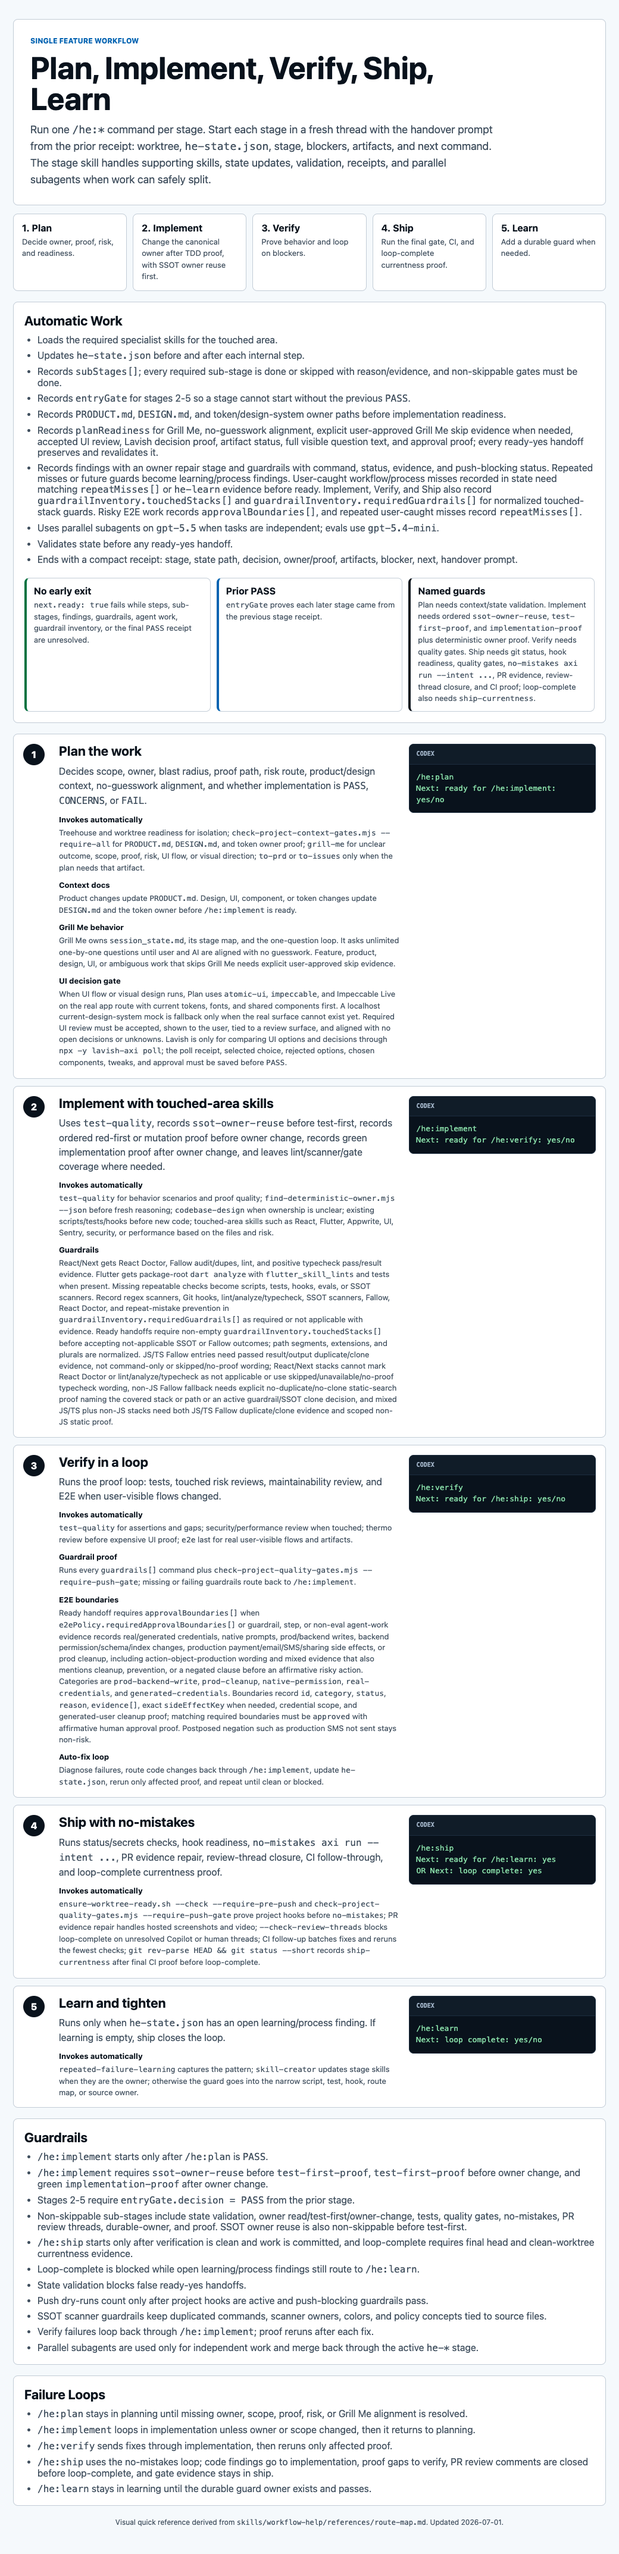
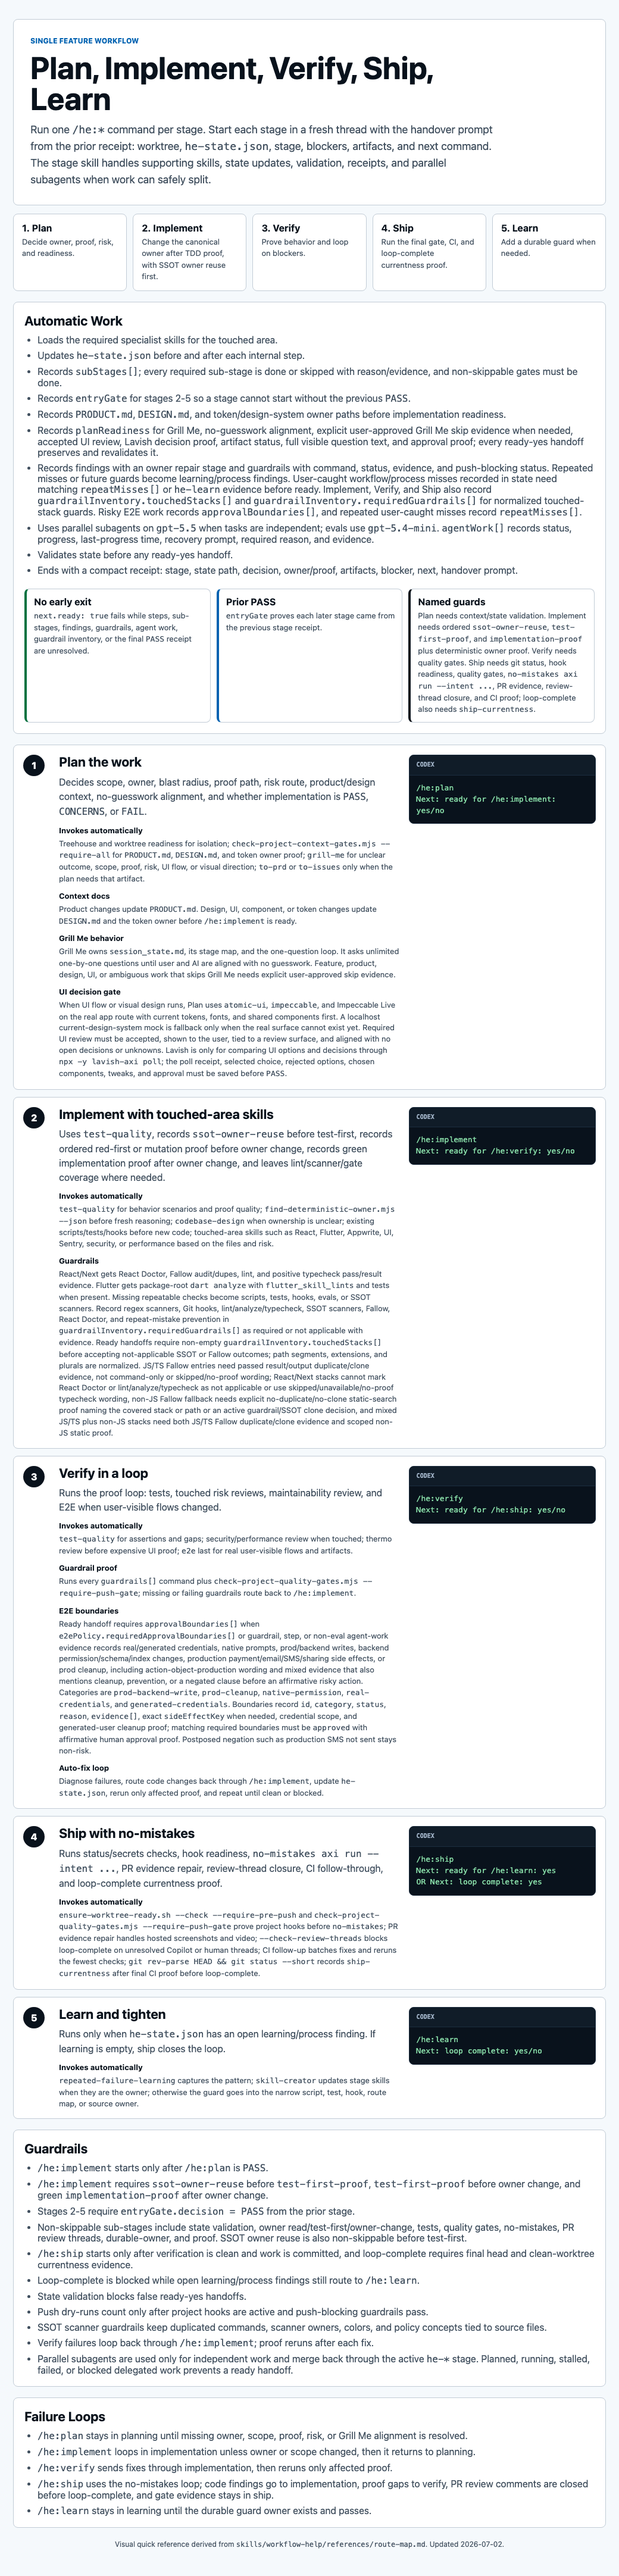
feat: validate delegated agent lifecycle state (#9)
* Add subagent lifecycle guardrails

* no-mistakes(review): Reject blank agentWork lifecycle entries

* no-mistakes(review): Require stalled subagent reason output

* no-mistakes(review): Require subagent lastProgressAt reporting

* no-mistakes(document): Sync agentWork lifecycle docs

* Bump alpha version for PR #9

---------

diff --git a/docs/project-workflow-gates.html b/docs/project-workflow-gates.html
@@ -191,7 +191,7 @@
         <li>Records <code>PRODUCT.md</code>, <code>DESIGN.md</code>, and token/design-system owner paths before implementation readiness.</li>
         <li>Records <code>planReadiness</code> for Grill Me, no-guesswork alignment, explicit user-approved Grill Me skip evidence when needed, accepted UI review, Lavish decision proof, artifact status, full visible question text, and approval proof; every ready-yes handoff preserves and revalidates it.</li>
         <li>Records findings with an owner repair stage and guardrails with command, status, evidence, and push-blocking status. Repeated misses or future guards become learning/process findings. User-caught workflow/process misses recorded in state need matching <code>repeatMisses[]</code> or <code>he-learn</code> evidence before ready. Implement, Verify, and Ship also record <code>guardrailInventory.touchedStacks[]</code> and <code>guardrailInventory.requiredGuardrails[]</code> for normalized touched-stack guards. Risky E2E work records <code>approvalBoundaries[]</code>, and repeated user-caught misses record <code>repeatMisses[]</code>.</li>
-        <li>Uses parallel subagents on <code>gpt-5.5</code> when tasks are independent; evals use <code>gpt-5.4-mini</code>.</li>
+        <li>Uses parallel subagents on <code>gpt-5.5</code> when tasks are independent; evals use <code>gpt-5.4-mini</code>. <code>agentWork[]</code> records status, progress, last-progress time, recovery prompt, required reason, and evidence.</li>
         <li>Validates state before any ready-yes handoff.</li>
         <li>Ends with a compact receipt: stage, state path, decision, owner/proof, artifacts, blocker, next, handover prompt.</li>
       </ul>
@@ -275,7 +275,7 @@ Next: loop complete: yes/no</code></pre>
         <li>Push dry-runs count only after project hooks are active and push-blocking guardrails pass.</li>
         <li>SSOT scanner guardrails keep duplicated commands, scanner owners, colors, and policy concepts tied to source files.</li>
         <li>Verify failures loop back through <code>/he:implement</code>; proof reruns after each fix.</li>
-        <li>Parallel subagents are used only for independent work and merge back through the active <code>he-*</code> stage.</li>
+        <li>Parallel subagents are used only for independent work and merge back through the active <code>he-*</code> stage. Planned, running, stalled, failed, or blocked delegated work prevents a ready handoff.</li>
       </ul>
     </section>
 
@@ -290,7 +290,7 @@ Next: loop complete: yes/no</code></pre>
       </ul>
     </section>
 
-    <p class="footer">Visual quick reference derived from <code>skills/workflow-help/references/route-map.md</code>. Updated 2026-07-01.</p>
+    <p class="footer">Visual quick reference derived from <code>skills/workflow-help/references/route-map.md</code>. Updated 2026-07-02.</p>
   </main>
 </body>
 </html>

diff --git a/skills/workflow-help/references/route-map.md b/skills/workflow-help/references/route-map.md
@@ -5,7 +5,7 @@
 Order is fixed: 1 `he-plan` -> 2 `he-implement` -> 3 `he-verify` -> 4 `he-ship` -> 5 `he-learn` when needed.
 Each stage runs until its exit is true or blocked, then says `Next: ready for /he:*: yes/no`.
 Prefer a fresh thread for each stage. Start the new thread with the handover prompt from the prior receipt; it must include the next `/he:*` command, worktree path, `he-state.json` path, stage, state, next target, blockers, artifacts, and the instruction to read state first.
-The visible command is one `he-*` command per stage. That stage loads touched-area skills, updates state, and uses parallel subagents only for independent work that can merge back through the active stage. Subagent work uses `gpt-5.5`; eval work uses `gpt-5.4-mini`.
+The visible command is one `he-*` command per stage. That stage loads touched-area skills, updates state, and uses parallel subagents only for independent work that can merge back through the active stage. Subagent work uses `gpt-5.5`; eval work uses `gpt-5.4-mini`. Delegated work is not fire-and-forget: `agentWork[]` records status, progress, last-progress time, recovery prompt, required reason, and evidence so the parent can tell running, stalled, blocked, failed, and done apart.
 State is required: each feature keeps an `he-state.json` in the plan/worktree. Every internal step updates `steps[]`; every required stage checklist updates `subStages[]`; every later stage records `entryGate` from the prior `PASS`; every finding from Plan onward updates `findings[]` with owner repair stage; every repeated miss, review gap, process gap, or missing future guard becomes a learning finding with `ownerStage: he-learn` and `repairType: learning`; every deterministic guard updates `guardrails[]` with owner, command, status, evidence, and whether it blocks push. Stages 2-4 also record `guardrailInventory.touchedStacks[]` and `guardrailInventory.requiredGuardrails[]` so normalized touched-stack guards are either required with a `guardrails[]` entry or not applicable with reason/evidence. E2E approval boundaries live in `approvalBoundaries[]` with `id`, `category`, `status`, `reason`, and `evidence[]`; categories are `prod-backend-write`, `prod-cleanup`, `native-permission`, `real-credentials`, and `generated-credentials`. Repeated user-caught misses live in `repeatMisses[]` with `issueClass` and `evidence[]`; any user-caught workflow/process miss in findings, decisions, or blockers needs matching `repeatMisses[]` or `he-learn` learning/process evidence before ready. Plan also records `context.product`, `context.design`, `context.tokenOwner`, and `planReadiness`; every later ready handoff preserves and revalidates `planReadiness`. Every done or blocked step has a receipt; only a final receipt with `decision: PASS` can set `Next: ... yes`. Before any `Next: ... yes`, run `node "$HOME/.agents/scripts/he-state.mjs" validate <he-state.json>`.
 To avoid context rot, every stage exits with a receipt, not a transcript:
 `Stage:` current stage; `State:` path to `he-state.json`; `Decision:` pass/blocker; `Owner/proof:` paths or commands; `Artifacts:` links/paths; `Blocker:` none or exact ask; `Next:` ready/not-ready; `Handover prompt:` copy-paste prompt for a brand-new session with worktree, state, blockers, artifacts, and next `/he:*` command.
@@ -59,10 +59,10 @@ Every failed stage records a finding in `he-state.json`, loops to the owning rep
 - Record E2E approval boundaries for real/generated credentials, native permission prompts, affirmative prod/backend/Appwrite/DB/payment/email/SMS/sharing side effects, backend permission/schema/index changes, and cleanup before any ready handoff with matching policy or risky guardrail, step, or non-eval agent-work evidence, including mixed evidence that also mentions cleanup or prevention; matching required boundaries must be `status: approved` with affirmative human approval proof; credential boundaries need `redactedCredentialRef` and `dataScope`, generated credentials need positive `cleanupProof[]`, and distinct production side effects need matching `sideEffectKey` or equivalent proof; postposed negation such as `production SMS not sent` stays non-risk
 - Record Grill Me/UI readiness in `planReadiness`; `next.ready: true` is invalid without unlimited-until-aligned Grill Me evidence, no open unknowns, explicit user-approved Grill Me skip evidence when feature/product/design/UI/ambiguous work bypasses Grill Me, and accepted required UI review with review surface, user response, design-system/shared-component evidence, and no open decisions or unknowns
 - Record `planReadiness.uiReview.lavish` only for UI option decisions: Lavish artifact path, no-timeout `npx -y lavish-axi poll`, poll receipt, saved choices, saved components, selected option, rejected options, and user decision
-- Record `agentWork[]`; subagents must use `gpt-5.5`, evals must use `gpt-5.4-mini`
+- Record `agentWork[]`; subagents must use `gpt-5.5`, evals must use `gpt-5.4-mini`; running, stalled, blocked, or failed entries need `progress[]`, `lastProgressAt`, and `recoveryPrompt`, with `reason` for stalled or blocked work
 - Eval cadence is realistic: deterministic state/hooks/scanners run by default; `gpt-5.4-mini` model evals run only for skill/routing contract changes, release readiness, or a regression; long Grill Me session evals run only for conversation-behavior changes or release proof
 - Product behavior changes update `PRODUCT.md`; design/UI/token changes update `DESIGN.md` and the token owner
-- `next.ready: true` is invalid while any step is pending, in progress, or blocked
+- `next.ready: true` is invalid while any step is pending, in progress, or blocked, or while `agentWork[]` is planned, running, stalled, failed, or blocked
 - `next.ready: true` is invalid while blocking findings or push-blocking guardrails are unresolved
 - `next.ready: true` is invalid without the stage-required guardrails: context/state validation for Plan, ordered TDD `test-first-proof` with explicit `test-quality` evidence, green `implementation-proof`, and touched-stack inventory for Implement, quality gate for Verify, git status/worktree-ready/quality gate/no-mistakes for Ship, and `ship-currentness` for Ship loop-complete
 - `next.ready: true` is invalid when user-caught workflow/process misses in findings, decisions, or blockers lack matching `repeatMisses[]` or `he-learn` learning/process evidence

diff --git a/README.md b/README.md
@@ -27,7 +27,7 @@ When the plan breaks, Hard Eng returns to state, names the owner, reruns the gua
 > Maturity: Hard Eng is pre-1.0 and not version 1 yet. Treat `0.x` releases as alpha workflow releases: skills, installer prompts, state schema, guards, and tags can still change before `v1.0.0`.
 
 [![Workflow](https://img.shields.io/badge/workflow-stateful-0891b2)](#he-workflow)
-[![Version](https://img.shields.io/badge/version-0.1.0--alpha.8-f59e0b)](#versioning)
+[![Version](https://img.shields.io/badge/version-0.1.0--alpha.9-f59e0b)](#versioning)
 [![Platform](https://img.shields.io/badge/tested-Codex%20%2B%20macOS-111827)](#tested-scope)
 [![Gates](https://img.shields.io/badge/gates-hooks%20%2B%20no--mistakes-16a34a)](#shipping-and-safety)
 
@@ -192,7 +192,7 @@ If branch-protection rules, required check names, or no-mistakes PR evidence beh
 
 ## Versioning
 
-Current version: `0.1.0-alpha.8` from [VERSION](VERSION). The matching Git tag is `v0.1.0-alpha.8`.
+Current version: `0.1.0-alpha.9` from [VERSION](VERSION). The matching Git tag is `v0.1.0-alpha.9`.
 
 Hard Eng follows SemVer-style tags with `vMAJOR.MINOR.PATCH` and prerelease suffixes while it is pre-1.0. `0.x` releases are alpha workflow releases, so workflow commands, `he-state.json`, installer prompts, skill routing, and guardrails can still change until `v1.0.0`.
 
@@ -269,7 +269,7 @@ In Codex, type one `/he:*` command per stage. These are Codex skill triggers, no
 - `repeatMisses[]`: repeated or user-caught workflow/process misses with `issueClass` and `evidence[]`; any user-caught miss recorded in findings, decisions, or blockers must also have a matching `repeatMisses[]` entry or `he-learn` learning/process finding before ready handoff
 - `context.product`, `context.design`, `context.tokenOwner`: `PRODUCT.md`, `DESIGN.md`, and token/design-system owner paths
 - `planReadiness`: Grill Me stage map, full visible question text, alignment receipt, UI review proof, `planReadiness.uiReview.lavish`, artifact status, and explicit user approval when Grill Me is skipped for feature, product, design, UI, or ambiguous work; every later ready handoff preserves and revalidates it
-- `agentWork[]`: parallel subagents and evals, with model, purpose, status, and evidence
+- `agentWork[]`: parallel subagents and evals, with model, purpose, status, progress, last-progress time, recovery prompt, required reason, and evidence
 
 Deterministic guardrails include regex scanners, Git hooks, lint/analyze/typecheck commands, SSOT scanners, Fallow, React Doctor, and repeat-mistake prevention through scripts, tests, hooks, or evals. Every touched-stack guardrail must be recorded in `guardrailInventory.requiredGuardrails[]` and, when required, in `guardrails[]` with owner, command, status, evidence, and `blocksPush`; missing, failed, unresolved, or skipped-without-reason/evidence guardrails block ready handoff. Ready Implement, Verify, and Ship handoffs require non-empty `guardrailInventory.touchedStacks[]` before any `not_applicable` SSOT or Fallow outcome is accepted; validators normalize path segments, camel/PascalCase names, file extensions, separators, and plurals before classifying touched stacks. UI/component/API/schema and SSOT owner-pattern work cannot mark `ssot-scanners` as `not_applicable` without owner or component-pattern search evidence. JS/TS duplicate checks require passed Fallow result/output duplicate/clone evidence, not command-only or skipped/no-proof wording; other stacks require stack-specific tool absence plus explicit no-duplicate/no-clone static-search proof naming the covered stack or path, or an active guardrail/SSOT clone decision with structured evidence or owner proof when fallback search finds clone groups. Mixed JS/TS and non-JS stacks require both Fallow JS/TS duplicate/clone evidence and explicit scoped non-JS static-search proof or a clone decision. React/Next touched stacks cannot mark React Doctor or lint/analyze/typecheck as not applicable, and lint/analyze/typecheck must include positive typecheck pass/result evidence rather than skipped, unavailable, or no-proof wording. TDD proof commands fail closed on no-op flags, failure masking, unsafe path/preload/config overrides, package-script passthrough bypasses, and dry-run/list-only runner modes.
 
@@ -284,6 +284,7 @@ Hard Eng is intentionally fail-closed:
 - `loop-complete` fails while open learning/process findings still route to `/he:learn`
 - `next.ready: true` requires preserved `planReadiness` with `unlimited_until_aligned`, no open questions or unknowns, user-confirmed no-guesswork alignment, accepted or not-required artifacts, explicit user-approved Grill Me skip evidence when feature/product/design/UI/ambiguous work bypasses Grill Me, and accepted required UI review with surface, user response, design-system/shared-component evidence, and no open decisions or unknowns
 - Subagents recorded in state must use `gpt-5.5`; evals must use `gpt-5.4-mini`
+- Running, stalled, blocked, or failed `agentWork[]` must include resumable progress, `lastProgressAt`, and `recoveryPrompt`; stalled or blocked work must also include `reason`
 
 | Stage | Command | What it does | Invokes automatically | Exit |
 | --- | --- | --- | --- | --- |

diff --git a/skills/thermo-nuclear-code-quality-review/references/review-board.md b/skills/thermo-nuclear-code-quality-review/references/review-board.md
@@ -4,7 +4,7 @@
 
 1. Read repo rules and target diff.
 2. Map owners, callers, routes, schemas, storage/cache keys, tests, and package boundaries.
-3. Use subagents in parallel when available for independent focus areas; parent verifies all findings.
+3. Use subagents in parallel when available for independent focus areas; parent records each delegated reviewer in `agentWork[]` and verifies all findings.
 4. Run stack-specific gates. React/Next requires React Doctor, Fallow duplicate/clone result evidence, lint, positive typecheck pass/result evidence, and `git push --dry-run` when project policy expects pre-push gates.
 5. Run final auditor pass: dedupe, reject weak claims, classify severity, and list unknowns.
 
@@ -18,7 +18,7 @@ Use independent reviewers when a subagent tool exists:
 - Security: auth, authorization, trust boundaries, secrets, injection, data exposure, crypto, config
 - Stack specialists only when touched: React/TS, Flutter, Appwrite, Fallow/cleanup, perf, UX, DevOps
 
-Each reviewer returns findings only: severity, evidence, structural risk, simpler direction, confidence. Parent verifies and decides.
+Each reviewer returns lifecycle status/progress plus findings: severity, evidence, structural risk, simpler direction, confidence. Parent verifies, records recovery details for incomplete work, and decides.
 
 ## Final Auditor
 

diff --git a/agents/mcp.md b/agents/mcp.md
@@ -16,8 +16,13 @@ Rules:
 - After activation, prefer direct `mcp__<server>__<tool>` tools if active; otherwise use `mcp_call`
 - Process large outputs inside MCP tools; never return raw dumps
 - Return only the parent-relevant bits:
+  - status: done, blocked, failed, or stalled
+  - progress bullets for activated servers and completed calls
+  - lastProgressAt when status is blocked, failed, or stalled
+  - reason when status is blocked or stalled
   - answer/decision
   - exact evidence: paths, lines, symbol names, command summaries, failing tests, errors
   - unknowns/limits
   - suggested next MCP call only if needed
+- If incomplete, include a short recovery prompt the parent can paste into a new subagent/thread to resume from the last completed MCP call
 - Keep final output compact. No filler

diff --git a/agents/tvly.md b/agents/tvly.md
@@ -14,8 +14,13 @@ Rules:
   - `tvly extract "URL"` for specific URLs
   - `tvly research "question" --json` for multi-source synthesis
 - Return only relevant bits to parent:
+  - status: done, blocked, failed, or stalled
+  - progress bullets for what was searched or extracted
+  - lastProgressAt when status is blocked, failed, or stalled
+  - reason when status is blocked or stalled
   - answer/summary
   - source URLs
   - exact quotes only when useful
   - unknowns/limits
+- If incomplete, include a short recovery prompt the parent can paste into a new subagent/thread to resume from the last completed search or extraction
 - No raw dumps. No filler

diff --git a/PRODUCT.md b/PRODUCT.md
@@ -27,6 +27,9 @@ and CI gates.
 - Deterministic stage gates: `subStages[]`, `entryGate`, `planReadiness`,
   `agentWork`, required guardrail command identities, Ship loop-complete
   currentness proof, and non-skippable gates
+- Subagent lifecycle: `agentWork[]` records delegated work status, progress,
+  last-progress time, stall/blocker reason, and a recovery prompt before any
+  ready handoff can pass
 - Implement proof gate: ordered `test-first` and explicit `test-quality` backed
   red-first or mutation `test-first-proof` before `owner-change`, followed by
   green `implementation-proof`
